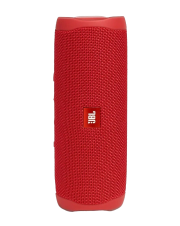
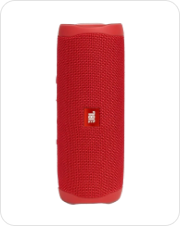
fix: fix presents styles

diff --git a/components/blocks/main/presents.vue b/components/blocks/main/presents.vue
@@ -168,11 +168,6 @@ const isAvailable = ref(
       align-items: center;
       img {
         width: 100%;
-        border: 1px solid #e3e3e3;
-        border-radius: 20px;
-        aspect-ratio: 180/226;
-        object-fit: contain;
-        transform: scale(1.01);
       }
 
       @include media(744px) {
@@ -188,6 +183,7 @@ const isAvailable = ref(
     background-size: cover !important;
     background-position: top right;
     position: relative;
+    border-radius: 20px;
 
     @include media(1440px) {
       background: none;
